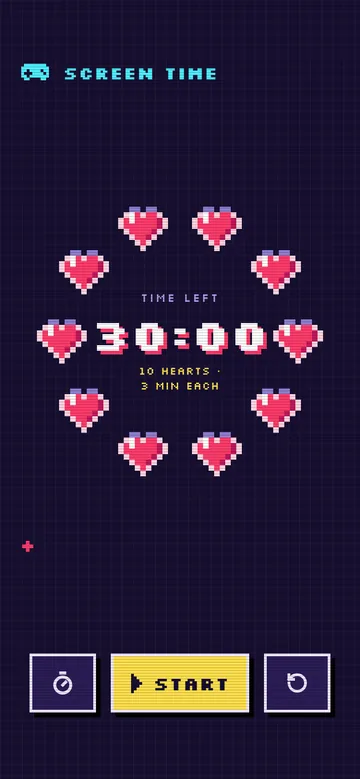
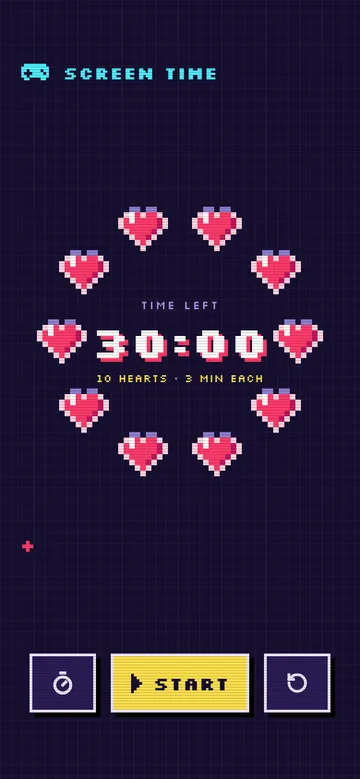
Keep the Pixel Hearts caption inside the ring
The caption stays on one line only where that line clears the hearts at
its height; otherwise it breaks cleanly into "12 hearts" / "10 min each".
Uneven lengths read as 6:43, and times of ten hours or more use a smaller
readout so they fit between the hearts.

Claude-Session: https://claude.ai/code/session_01BDMspL63Je5fGNU67sLzgM

Changed region(s): [[0.2444, 0.3697, 0.7639, 0.5237]]

diff --git a/themes.js b/themes.js
@@ -1,4 +1,4 @@
-import { DCLogic } from './dc-runtime.js?v=bda92d4bde';
+import { DCLogic } from './dc-runtime.js?v=951db2664f';
 
 export const THEMES = [
   Object.assign({"id":"rainbow","name":"Rainbow","tagline":"Each color is 10 minutes","relative":false,"sleep":false,"bars":["#CFE8FF","#62C584"],"lbars":null,"ldir":null,"lsplit":80,"psplit":62,"back":"light","defaults":{"minutes":55,"speed":"Demo (1 min = 1 s)","bleed":false,"landscape":false},"template":"<div style=\"width: {{ L.w }}px; height: {{ L.h }}px; position: relative; overflow: {{ L.ov }}; background: #CFE8FF; font-family: 'Fredoka', 'Arial Rounded MT Bold', system-ui, sans-serif; color: #1E2A4A\">\n<div aria-hidden=\"true\" style=\"position: absolute; left: -1200px; top: -1200px; right: -1200px; bottom: -1200px; pointer-events: none; display: {{ L.bD }}; background: #CFE8FF\"></div>\n<svg width=\"{{ L.w }}\" height=\"{{ L.h }}\" viewBox=\"{{ L.vb }}\" role=\"img\" aria-label=\"{{ ariaLabel }}\" style=\"position: absolute; left: 0; top: 0; display: block; overflow: {{ L.ov }}\">\n<g display=\"{{ L.lD }}\">\n<g style=\"animation: rr-drift-l 74s linear -30s infinite\">\n<g fill=\"#FFFFFF\" opacity=\"0.9\">\n<circle cx=\"34\" cy=\"70\" r=\"15\"></circle>\n<circle cx=\"56\" cy=\"61\" r=\"20\"></circle>\n<circle cx=\"80\" cy=\"70\" r=\"14\"></circle>\n<rect x=\"19\" y=\"68\" width=\"76\" height=\"16\" rx=\"8\"></rect>\n</g>\n</g>\n<g style=\"animation: rr-drift-l 98s linear -74s infinite\">\n<g fill=\"#FFFFFF\" opacity=\"0.75\">\n<circle cx=\"26\" cy=\"128\" r=\"11\"></circle>\n<circle cx=\"42\" cy=\"121\" r=\"15\"></circle>\n<circle cx=\"60\" cy=\"128\" r=\"10\"></circle>\n<rect x=\"15\" y=\"127\" width=\"56\" height=\"12\" rx=\"6\"></rect>\n</g>\n</g>\n<path d=\"M-1200 318L-300 318C-120 318 -48 309 0 300C96 282 196 284 290 300C380 315 450 300 520 268C600 232 720 224 844 238C968 252 1100 262 1300 262L2044 262L2044 1590L-1200 1590Z\" fill=\"#9ADFA9\"></path>\n<path d=\"M-1200 360L-300 360C-120 360 -55 350 0 338C110 314 222 314 330 330C420 344 470 330 540 300C620 266 730 262 844 274C958 286 1100 296 1300 296L2044 296L2044 1590L-1200 1590Z\" fill=\"#62C584\"></path>\n</g>\n<g display=\"{{ L.pD }}\">\n<g style=\"animation: rr-drift 54s linear -20s infinite\">\n<g fill=\"#FFFFFF\" opacity=\"0.9\">\n<circle cx=\"34\" cy=\"178\" r=\"15\"></circle>\n<circle cx=\"56\" cy=\"169\" r=\"20\"></circle>\n<circle cx=\"80\" cy=\"178\" r=\"14\"></circle>\n<rect x=\"19\" y=\"176\" width=\"76\" height=\"16\" rx=\"8\"></rect>\n</g>\n</g>\n<g style=\"animation: rr-drift 72s linear -50s infinite\">\n<g fill=\"#FFFFFF\" opacity=\"0.75\">\n<circle cx=\"26\" cy=\"232\" r=\"11\"></circle>\n<circle cx=\"42\" cy=\"225\" r=\"15\"></circle>\n<circle cx=\"60\" cy=\"232\" r=\"10\"></circle>\n<rect x=\"15\" y=\"231\" width=\"56\" height=\"12\" rx=\"6\"></rect>\n</g>\n</g>\n</g>\n<g transform=\"{{ L.gT }}\">\n<g opacity=\"{{ sunOpacity }}\" style=\"transition: opacity 0.9s ease\">\n<g style=\"transform-box: fill-box; transform-origin: center; animation: rr-spin 28s linear infinite\">\n<path d=\"M255 352L271 352M246.96 382L260.82 390M225 403.96L233 417.82M195 412L195 428M165 403.96L157 417.82M143.04 382L129.18 390M135 352L119 352M143.04 322L129.18 314M165 300.04L157 286.18M195 292L195 276M225 300.04L233 286.18M246.96 322L260.82 314\" fill=\"none\" stroke=\"#FFC233\" stroke-width=\"10\" stroke-linecap=\"round\"></path>\n</g>\n<circle cx=\"195\" cy=\"352\" r=\"48\" fill=\"#FFD23F\"></circle>\n<circle cx=\"195\" cy=\"352\" r=\"36\" fill=\"#FFE27A\"></circle>\n</g>\n<g fill=\"none\" stroke=\"#FFFFFF\" stroke-opacity=\"0.5\" stroke-width=\"20\" stroke-linecap=\"round\">\n<path d=\"M25 432A170 170 0 0 1 365 432\"></path>\n<path d=\"M48 432A147 147 0 0 1 342 432\"></path>\n<path d=\"M71 432A124 124 0 0 1 319 432\"></path>\n<path d=\"M94 432A101 101 0 0 1 296 432\"></path>\n<path d=\"M117 432A78 78 0 0 1 273 432\"></path>\n<path d=\"M140 432A55 55 0 0 1 250 432\"></path>\n</g>\n<g fill=\"none\" stroke-width=\"20\" stroke-linecap=\"round\">\n<path d=\"{{ b0 }}\" stroke=\"#FF5D5D\"></path>\n<path d=\"{{ b1 }}\" stroke=\"#FF9F43\"></path>\n<path d=\"{{ b2 }}\" stroke=\"#FFD43B\"></path>\n<path d=\"{{ b3 }}\" stroke=\"#4CCB7A\"></path>\n<path d=\"{{ b4 }}\" stroke=\"#4D96FF\"></path>\n<path d=\"{{ b5 }}\" stroke=\"#9B6BFF\"></path>\n</g>\n<g transform=\"translate({{ tipX }} {{ tipY }})\" opacity=\"{{ tipOpacity }}\">\n<path d=\"M0 -11C1.6 -3 3 -1.6 11 0C3 1.6 1.6 3 0 11C-1.6 3 -3 1.6 -11 0C-3 -1.6 -1.6 -3 0 -11Z\" fill=\"#FFFFFF\" style=\"animation: rr-twinkle 1.1s ease-in-out infinite\"></path>\n</g>\n<g fill=\"#1E2A4A\" font-size=\"13\" font-weight=\"600\" text-anchor=\"middle\">\n<text x=\"25\" y=\"462\">{{ F.a }}</text>\n<text x=\"48\" y=\"462\">{{ F.b }}</text>\n<text x=\"71\" y=\"462\">{{ F.c }}</text>\n<text x=\"94\" y=\"462\">{{ F.d }}</text>\n<text x=\"117\" y=\"462\">{{ F.e }}</text>\n<text x=\"140\" y=\"462\">{{ F.f }}</text>\n</g>\n<g style=\"animation: rr-bob 3.4s ease-in-out infinite\">\n<g fill=\"#B4D3F2\">\n<rect x=\"226\" y=\"423\" width=\"172\" height=\"48\" rx=\"24\"></rect>\n<circle cx=\"258\" cy=\"427\" r=\"30\"></circle>\n<circle cx=\"300\" cy=\"409\" r=\"40\"></circle>\n<circle cx=\"346\" cy=\"411\" r=\"36\"></circle>\n<circle cx=\"380\" cy=\"431\" r=\"28\"></circle>\n</g>\n<g fill=\"#FFFFFF\">\n<rect x=\"226\" y=\"416\" width=\"172\" height=\"48\" rx=\"24\"></rect>\n<circle cx=\"258\" cy=\"420\" r=\"30\"></circle>\n<circle cx=\"300\" cy=\"402\" r=\"40\"></circle>\n<circle cx=\"346\" cy=\"404\" r=\"36\"></circle>\n<circle cx=\"380\" cy=\"424\" r=\"28\"></circle>\n</g>\n<circle cx=\"292\" cy=\"414\" r=\"3.4\" fill=\"#1E2A4A\"></circle>\n<circle cx=\"318\" cy=\"414\" r=\"3.4\" fill=\"#1E2A4A\"></circle>\n<path d=\"M299 421Q305 426.5 311 421\" fill=\"none\" stroke=\"#1E2A4A\" stroke-width=\"2.4\" stroke-linecap=\"round\"></path>\n<ellipse cx=\"281\" cy=\"423\" rx=\"6\" ry=\"3.6\" fill=\"#FFB5C5\"></ellipse>\n<ellipse cx=\"329\" cy=\"423\" rx=\"6\" ry=\"3.6\" fill=\"#FFB5C5\"></ellipse>\n</g>\n</g>\n<g display=\"{{ L.pD }}\">\n<path d=\"M-1200 540L-400 540C-200 540 -36 514 0 500C72 472 152 470 222 488C282 503 342 499 390 480C438 461 560 452 760 452L1590 452L1590 2044L-1200 2044Z\" fill=\"#9ADFA9\"></path>\n<path d=\"M-1200 590L-400 590C-200 590 -46 569 0 552C92 518 182 514 262 530C322 542 362 538 390 528C418 518 560 506 760 506L1590 506L1590 2044L-1200 2044Z\" fill=\"#62C584\"></path>\n</g>\n</svg>\n<header style=\"position: absolute; left: {{ L.hL }}px; right: {{ L.hR }}px; top: {{ L.hT }}px; height: 52px; display: flex; align-items: center; justify-content: space-between; gap: 12px\">\n<h1 style=\"margin: 0; font-size: 28px; font-weight: 700; line-height: 1.1; letter-spacing: -0.01em\">Playtime</h1>\n</header>\n<div style=\"position: absolute; left: {{ L.pL }}px; right: {{ L.pR }}px; top: {{ L.rT }}px; transform: {{ L.mid }}; display: flex; flex-direction: column; align-items: center\">\n<sc-if value=\"{{ notDone }}\" hint-placeholder-val=\"{{ true }}\">\n<div style=\"display: flex; flex-direction: column; align-items: center; gap: 10px\">\n<div style=\"font-size: 80px; font-weight: 700; line-height: 1; letter-spacing: -0.02em; font-variant-numeric: tabular-nums\">{{ time }}</div>\n<div style=\"display: flex; align-items: center; gap: 10px; font-size: 17px; font-weight: 600\">\n<div style=\"display: flex; align-items: center; gap: 5px\" aria-hidden=\"true\">\n<span style=\"width: 11px; height: 11px; border-radius: 99px; background: #FF5D5D; box-shadow: 0 0 0 2px #FFFFFF\"></span>\n<span style=\"width: 11px; height: 11px; border-radius: 99px; background: #FF9F43; box-shadow: 0 0 0 2px #FFFFFF\"></span>\n<span style=\"width: 11px; height: 11px; border-radius: 99px; background: #FFD43B; box-shadow: 0 0 0 2px #FFFFFF\"></span>\n<span style=\"width: 11px; height: 11px; border-radius: 99px; background: #4CCB7A; box-shadow: 0 0 0 2px #FFFFFF\"></span>\n<span style=\"width: 11px; height: 11px; border-radius: 99px; background: #4D96FF; box-shadow: 0 0 0 2px #FFFFFF\"></span>\n<span style=\"width: 11px; height: 11px; border-radius: 99px; background: #9B6BFF; box-shadow: 0 0 0 2px #FFFFFF\"></span>\n</div>\n<span>{{ colorLabel }}</span>\n</div>\n</div>\n</sc-if>\n<sc-if value=\"{{ done }}\" hint-placeholder-val=\"{{ false }}\">\n<div style=\"display: flex; flex-direction: column; align-items: center; gap: 10px\">\n<div style=\"font-size: 62px; font-weight: 700; line-height: 1\">All done!</div>\n<div style=\"font-size: 18px; font-weight: 600\">The rainbow went home</div>\n</div>\n</sc-if>\n</div>\n<div style=\"position: absolute; left: {{ L.pL }}px; right: {{ L.pR }}px; top: {{ L.kT }}px; transform: {{ L.mid }}; display: flex; align-items: center; justify-content: center; gap: 30px\">\n<button type=\"button\" onClick=\"{{ setTime }}\" aria-label=\"Set the time\" style=\"width: 62px; height: 62px; padding: 0; border: none; border-radius: 999px; background: #FFFFFF; color: #1E2A4A; display: flex; align-items: center; justify-content: center; cursor: pointer; box-shadow: 0 4px 0 #3F9E62\"><svg width=\"26\" height=\"26\" viewBox=\"0 0 24 24\" fill=\"none\" stroke=\"currentColor\" stroke-width=\"2.4\" stroke-linecap=\"round\" stroke-linejoin=\"round\" aria-hidden=\"true\" style=\"display: block\"><path d=\"M10 2h4M12 14l3-3\"></path><circle cx=\"12\" cy=\"14\" r=\"8\"></circle></svg></button>\n<button type=\"button\" onClick=\"{{ toggle }}\" aria-label=\"{{ toggleLabel }}\" style=\"width: 90px; height: 90px; padding: 0; border: none; border-radius: 999px; background: #1E2A4A; color: #FFFFFF; display: flex; align-items: center; justify-content: center; cursor: pointer; box-shadow: 0 6px 0 #101935\">\n<sc-if value=\"{{ showPlay }}\" hint-placeholder-val=\"{{ true }}\"><svg width=\"38\" height=\"38\" viewBox=\"0 0 24 24\" aria-hidden=\"true\" style=\"display: block; margin-left: 3px\"><path d=\"M8 5.14v13.72a1 1 0 0 0 1.52.85l10.79-6.86a1 1 0 0 0 0-1.7L9.52 4.29A1 1 0 0 0 8 5.14z\" fill=\"currentColor\"></path></svg></sc-if>\n<sc-if value=\"{{ running }}\" hint-placeholder-val=\"{{ false }}\"><svg width=\"34\" height=\"34\" viewBox=\"0 0 24 24\" aria-hidden=\"true\" style=\"display: block\"><rect x=\"6\" y=\"4.5\" width=\"4.5\" height=\"15\" rx=\"1.4\" fill=\"currentColor\"></rect><rect x=\"13.5\" y=\"4.5\" width=\"4.5\" height=\"15\" rx=\"1.4\" fill=\"currentColor\"></rect></svg></sc-if>\n<sc-if value=\"{{ showReplay }}\" hint-placeholder-val=\"{{ false }}\"><svg width=\"34\" height=\"34\" viewBox=\"0 0 24 24\" fill=\"none\" stroke=\"currentColor\" stroke-width=\"2.6\" stroke-linecap=\"round\" stroke-linejoin=\"round\" aria-hidden=\"true\" style=\"display: block\"><path d=\"M3 12a9 9 0 1 0 9-9 9.75 9.75 0 0 0-6.74 2.74L3 8\"></path><path d=\"M3 3v5h5\"></path></svg></sc-if>\n</button>\n<button type=\"button\" onClick=\"{{ reset }}\" aria-label=\"Reset timer\" style=\"width: 62px; height: 62px; padding: 0; border: none; border-radius: 999px; background: #FFFFFF; color: #1E2A4A; display: flex; align-items: center; justify-content: center; cursor: pointer; box-shadow: 0 4px 0 #3F9E62\"><svg width=\"24\" height=\"24\" viewBox=\"0 0 24 24\" fill=\"none\" stroke=\"currentColor\" stroke-width=\"2.4\" stroke-linecap=\"round\" stroke-linejoin=\"round\" aria-hidden=\"true\" style=\"display: block\"><path d=\"M3 12a9 9 0 1 0 9-9 9.75 9.75 0 0 0-6.74 2.74L3 8\"></path><path d=\"M3 3v5h5\"></path></svg></button>\n</div>\n<sc-if value=\"{{ picking }}\" hint-placeholder-val=\"{{ false }}\">\n<div style=\"position: absolute; left: 0; top: 0; width: {{ L.w }}px; height: {{ L.h }}px; z-index: 20\">\n<dc-import name=\"TimePicker\" value=\"{{ pickValue }}\" mode=\"duration\" heading=\"Set time\" accent=\"#1E2A4A\" accent-ink=\"#FFFFFF\" dark=\"{{ false }}\" landscape=\"{{ L.land }}\" bleed=\"{{ L.B }}\" on-set=\"{{ applyTime }}\" on-cancel=\"{{ cancelPick }}\" hint-size=\"390px,844px\"></dc-import>\n</div>\n</sc-if>\n</div>"}, { Logic: (function () {
@@ -675,7 +675,7 @@ class Component extends DCLogic {
 }
 return Component;
 })() }),
-  Object.assign({"id":"hearts","name":"Pixel Hearts","tagline":"Screen time, game style","relative":false,"sleep":false,"bars":["#170F31","#170F31"],"lbars":null,"ldir":null,"lsplit":null,"psplit":null,"back":"dark","defaults":{"minutes":30,"speed":"Demo (1 min = 1 s)","bleed":false,"landscape":false},"template":"<div style=\"width: {{ L.w }}px; height: {{ L.h }}px; position: relative; overflow: {{ L.ov }}; background-color: #170F31; background-image: linear-gradient(rgba(255, 255, 255, 0.04) 1px, transparent 1px), linear-gradient(90deg, rgba(255, 255, 255, 0.04) 1px, transparent 1px); background-size: 12px 12px; font-family: 'Silkscreen', 'Courier New', monospace; color: #EFE6FF\">\n<div aria-hidden=\"true\" style=\"position: absolute; left: -1200px; top: -1200px; right: -1200px; bottom: -1200px; pointer-events: none; display: {{ L.bD }}; background-color: #170F31; background-image: linear-gradient(rgba(255, 255, 255, 0.04) 1px, transparent 1px), linear-gradient(90deg, rgba(255, 255, 255, 0.04) 1px, transparent 1px); background-size: 12px 12px; background-position: 1200px 1200px\"></div>\n<svg width=\"{{ L.w }}\" height=\"{{ L.h }}\" viewBox=\"{{ L.vb }}\" shape-rendering=\"crispEdges\" aria-hidden=\"true\" style=\"position: absolute; left: 0; top: 0; display: block\">\n<g display=\"{{ L.lD }}\">\n<g fill=\"#4DF0FF\" style=\"animation: ar-blink 1.6s steps(1) infinite\"><rect x=\"66\" y=\"52\" width=\"12\" height=\"4\"></rect><rect x=\"70\" y=\"48\" width=\"4\" height=\"12\"></rect><rect x=\"410\" y=\"334\" width=\"12\" height=\"4\"></rect><rect x=\"414\" y=\"330\" width=\"4\" height=\"12\"></rect></g>\n<g fill=\"#FFE14D\" style=\"animation: ar-blink 2.2s steps(1) -0.7s infinite\"><rect x=\"414\" y=\"44\" width=\"12\" height=\"4\"></rect><rect x=\"418\" y=\"40\" width=\"4\" height=\"12\"></rect><rect x=\"774\" y=\"336\" width=\"12\" height=\"4\"></rect><rect x=\"778\" y=\"332\" width=\"4\" height=\"12\"></rect></g>\n<g fill=\"#FF3B6B\" style=\"animation: ar-blink 1.9s steps(1) -1.1s infinite\"><rect x=\"56\" y=\"322\" width=\"12\" height=\"4\"></rect><rect x=\"60\" y=\"318\" width=\"4\" height=\"12\"></rect><rect x=\"606\" y=\"312\" width=\"12\" height=\"4\"></rect><rect x=\"610\" y=\"308\" width=\"4\" height=\"12\"></rect></g>\n</g>\n<g display=\"{{ L.pD }}\">\n<g fill=\"#4DF0FF\" style=\"animation: ar-blink 1.6s steps(1) infinite\"><rect x=\"38\" y=\"168\" width=\"12\" height=\"4\"></rect><rect x=\"42\" y=\"164\" width=\"4\" height=\"12\"></rect><rect x=\"354\" y=\"558\" width=\"12\" height=\"4\"></rect><rect x=\"358\" y=\"554\" width=\"4\" height=\"12\"></rect></g>\n<g fill=\"#FFE14D\" style=\"animation: ar-blink 2.2s steps(1) -0.7s infinite\"><rect x=\"346\" y=\"174\" width=\"12\" height=\"4\"></rect><rect x=\"350\" y=\"170\" width=\"4\" height=\"12\"></rect><rect x=\"312\" y=\"638\" width=\"12\" height=\"4\"></rect><rect x=\"316\" y=\"634\" width=\"4\" height=\"12\"></rect></g>\n<g fill=\"#FF3B6B\" style=\"animation: ar-blink 1.9s steps(1) -1.1s infinite\"><rect x=\"24\" y=\"590\" width=\"12\" height=\"4\"></rect><rect x=\"28\" y=\"586\" width=\"4\" height=\"12\"></rect></g>\n</g>\n</svg>\n<header style=\"position: absolute; left: {{ L.hL }}px; right: {{ L.hR }}px; top: {{ L.hT }}px; height: 52px; display: flex; align-items: center; justify-content: space-between; gap: 12px\">\n<div style=\"display: flex; align-items: center; gap: 12px\">\n<svg width=\"36\" height=\"24\" viewBox=\"0 0 12 8\" shape-rendering=\"crispEdges\" aria-hidden=\"true\" style=\"display: block\"><path d=\"M2 1h8v1h1v4h-1v1h-2v-1h-4v1h-2v-1h-1v-4h1z\" fill=\"#4DF0FF\"></path><path d=\"M3 3h1v1h1v1h-1v1h-1v-1h-1v-1h1z\" fill=\"#170F31\"></path><path d=\"M8 3h1v1h-1zM9 4h1v1h-1z\" fill=\"#170F31\"></path></svg>\n<h1 style=\"margin: 0; font-family: 'Silkscreen', 'Courier New', monospace; font-weight: 700; font-size: 21px; line-height: 1; color: #4DF0FF; letter-spacing: 0.02em\">Screen time</h1>\n</div>\n</header>\n<div style=\"position: absolute; left: 0; top: 0; width: 390px; height: 844px; pointer-events: none; transform-origin: 0 0; transform: {{ L.cT }}\">\n<sc-for list=\"{{ hearts }}\" as=\"h\" hint-placeholder-count=\"12\">\n<div style=\"position: absolute; left: {{ h.x }}px; top: {{ h.y }}px; width: 54px; height: 48px; animation: {{ h.anim }}\">\n<svg width=\"54\" height=\"48\" viewBox=\"0 0 9 8\" shape-rendering=\"crispEdges\" aria-hidden=\"true\" style=\"position: absolute; left: 0; top: 0; display: block\">\n<path d=\"M2 1h2v1h-2zM5 1h2v1h-2zM1 2h7v2h-7zM2 4h5v1h-5zM3 5h3v1h-3zM4 6h1v1h-1z\" fill=\"#241845\"></path>\n<path d=\"M2 0h2v1h-2zM5 0h2v1h-2zM1 1h1v1h-1zM4 1h1v1h-1zM7 1h1v1h-1zM0 2h1v2h-1zM8 2h1v2h-1zM1 4h1v1h-1zM7 4h1v1h-1zM2 5h1v1h-1zM6 5h1v1h-1zM3 6h1v1h-1zM5 6h1v1h-1zM4 7h1v1h-1z\" fill=\"#8F7FD0\"></path>\n</svg>\n<div style=\"position: absolute; left: 0; bottom: 0; width: 54px; height: {{ h.h }}px; overflow: hidden\">\n<svg width=\"54\" height=\"48\" viewBox=\"0 0 9 8\" shape-rendering=\"crispEdges\" aria-hidden=\"true\" style=\"position: absolute; left: 0; bottom: 0; display: block\">\n<path d=\"M2 1h2v1h-2zM5 1h2v1h-2zM1 2h7v2h-7zM2 4h5v1h-5zM3 5h3v1h-3zM4 6h1v1h-1z\" fill=\"#FF3B6B\"></path>\n<path d=\"M7 2h1v2h-1zM6 4h1v1h-1zM5 5h1v1h-1z\" fill=\"#C2185B\"></path>\n<path d=\"M2 1h1v2h-1z\" fill=\"#FFFFFF\"></path>\n<path d=\"M2 0h2v1h-2zM5 0h2v1h-2zM1 1h1v1h-1zM4 1h1v1h-1zM7 1h1v1h-1zM0 2h1v2h-1zM8 2h1v2h-1zM1 4h1v1h-1zM7 4h1v1h-1zM2 5h1v1h-1zM6 5h1v1h-1zM3 6h1v1h-1zM5 6h1v1h-1zM4 7h1v1h-1z\" fill=\"#FFD6E2\"></path>\n</svg>\n</div>\n</div>\n</sc-for>\n<div role=\"img\" aria-label=\"{{ ariaLabel }}\" style=\"position: absolute; left: 95px; top: 300px; width: 200px; height: 140px; display: flex; flex-direction: column; align-items: center; justify-content: center; text-align: center\">\n<sc-if value=\"{{ notDone }}\" hint-placeholder-val=\"{{ true }}\">\n<div style=\"display: flex; flex-direction: column; align-items: center; gap: 8px\">\n<div style=\"font-family: 'Silkscreen', 'Courier New', monospace; font-size: 13px; color: #A99BE6; letter-spacing: 0.12em\">Time left</div>\n<div style=\"font-family: 'Silkscreen', 'Courier New', monospace; font-weight: 700; font-size: {{ timeSize }}px; line-height: 1; color: #FFFFFF; text-shadow: 4px 4px 0 #FF3B6B; font-variant-numeric: tabular-nums\">{{ time }}</div>\n<div style=\"max-width: 176px; font-family: 'Silkscreen', 'Courier New', monospace; font-size: 12px; line-height: 1.35; color: #FFE14D; letter-spacing: 0.04em; text-wrap: balance\">{{ heartsLabel }}</div>\n</div>\n</sc-if>\n<sc-if value=\"{{ done }}\" hint-placeholder-val=\"{{ false }}\">\n<div style=\"display: flex; flex-direction: column; align-items: center; gap: 12px\">\n<div style=\"display: flex; flex-direction: column; align-items: center; font-family: 'Silkscreen', 'Courier New', monospace; font-weight: 700; font-size: 40px; line-height: 0.95; color: #FFFFFF; text-shadow: 4px 4px 0 #FF3B6B; animation: ar-blink 1s steps(1) infinite\">\n<span>Game</span>\n<span>over</span>\n</div>\n<div style=\"font-family: 'Silkscreen', 'Courier New', monospace; font-size: 13px; color: #FFE14D\">Break time!</div>\n</div>\n</sc-if>\n</div>\n</div>\n<div style=\"position: absolute; left: {{ L.pL }}px; right: {{ L.pR }}px; top: {{ L.kT }}px; transform: {{ L.mid }}; display: flex; align-items: center; justify-content: center; gap: 16px\">\n<button type=\"button\" onClick=\"{{ setTime }}\" aria-label=\"Set the time\" style=\"width: 72px; height: 64px; padding: 0; border: 3px solid #EFE6FF; border-radius: 0; background: #2A1D55; color: #EFE6FF; display: flex; align-items: center; justify-content: center; cursor: pointer; box-shadow: 5px 5px 0 #000000\"><svg width=\"26\" height=\"26\" viewBox=\"0 0 24 24\" fill=\"none\" stroke=\"currentColor\" stroke-width=\"3\" stroke-linecap=\"square\" stroke-linejoin=\"miter\" aria-hidden=\"true\" style=\"display: block\"><path d=\"M10 2h4M12 14l3-3\"></path><circle cx=\"12\" cy=\"14\" r=\"8\"></circle></svg></button>\n<button type=\"button\" onClick=\"{{ toggle }}\" aria-label=\"{{ toggleLabel }}\" style=\"width: 150px; height: 64px; padding: 0 14px; border: 3px solid #EFE6FF; border-radius: 0; background: #FFE14D; color: #170F31; display: flex; align-items: center; justify-content: center; font-family: 'Silkscreen', 'Courier New', monospace; font-size: 20px; font-weight: 700; cursor: pointer; box-shadow: 5px 5px 0 #000000\">\n<sc-if value=\"{{ showPlay }}\" hint-placeholder-val=\"{{ true }}\"><span style=\"display: flex; align-items: center; gap: 12px\"><svg width=\"12\" height=\"21\" viewBox=\"0 0 4 7\" shape-rendering=\"crispEdges\" aria-hidden=\"true\" style=\"display: block\"><path d=\"M0 0h1v7h-1zM1 1h1v5h-1zM2 2h1v3h-1zM3 3h1v1h-1z\" fill=\"currentColor\"></path></svg><span>Start</span></span></sc-if>\n<sc-if value=\"{{ running }}\" hint-placeholder-val=\"{{ false }}\"><span style=\"display: flex; align-items: center; gap: 12px\"><svg width=\"15\" height=\"21\" viewBox=\"0 0 5 7\" shape-rendering=\"crispEdges\" aria-hidden=\"true\" style=\"display: block\"><path d=\"M0 0h2v7h-2zM3 0h2v7h-2z\" fill=\"currentColor\"></path></svg><span>Pause</span></span></sc-if>\n<sc-if value=\"{{ showReplay }}\" hint-placeholder-val=\"{{ false }}\"><span style=\"display: flex; align-items: center; gap: 12px\"><svg width=\"12\" height=\"21\" viewBox=\"0 0 4 7\" shape-rendering=\"crispEdges\" aria-hidden=\"true\" style=\"display: block\"><path d=\"M0 0h1v7h-1zM1 1h1v5h-1zM2 2h1v3h-1zM3 3h1v1h-1z\" fill=\"currentColor\"></path></svg><span>Again</span></span></sc-if>\n</button>\n<button type=\"button\" onClick=\"{{ reset }}\" aria-label=\"Reset timer\" style=\"width: 72px; height: 64px; padding: 0; border: 3px solid #EFE6FF; border-radius: 0; background: #2A1D55; color: #EFE6FF; display: flex; align-items: center; justify-content: center; cursor: pointer; box-shadow: 5px 5px 0 #000000\"><svg width=\"24\" height=\"24\" viewBox=\"0 0 24 24\" fill=\"none\" stroke=\"currentColor\" stroke-width=\"3\" stroke-linecap=\"square\" stroke-linejoin=\"miter\" aria-hidden=\"true\" style=\"display: block\"><path d=\"M3 12a9 9 0 1 0 9-9 9.75 9.75 0 0 0-6.74 2.74L3 8\"></path><path d=\"M3 3v5h5\"></path></svg></button>\n</div>\n<div aria-hidden=\"true\" style=\"position: absolute; left: {{ L.bI }}px; top: {{ L.bI }}px; right: {{ L.bI }}px; bottom: {{ L.bI }}px; pointer-events: none; background-image: repeating-linear-gradient(180deg, rgba(0, 0, 0, 0.16) 0px, rgba(0, 0, 0, 0.16) 1px, transparent 1px, transparent 3px)\"></div>\n<sc-if value=\"{{ picking }}\" hint-placeholder-val=\"{{ false }}\">\n<div style=\"position: absolute; left: 0; top: 0; width: {{ L.w }}px; height: {{ L.h }}px; z-index: 20\">\n<dc-import name=\"TimePicker\" value=\"{{ pickValue }}\" mode=\"duration\" heading=\"Set time\" accent=\"#FFE14D\" accent-ink=\"#170F31\" dark=\"{{ true }}\" landscape=\"{{ L.land }}\" bleed=\"{{ L.B }}\" on-set=\"{{ applyTime }}\" on-cancel=\"{{ cancelPick }}\" hint-size=\"390px,844px\"></dc-import>\n</div>\n</sc-if>\n</div>"}, { Logic: (function () {
+  Object.assign({"id":"hearts","name":"Pixel Hearts","tagline":"Screen time, game style","relative":false,"sleep":false,"bars":["#170F31","#170F31"],"lbars":null,"ldir":null,"lsplit":null,"psplit":null,"back":"dark","defaults":{"minutes":30,"speed":"Demo (1 min = 1 s)","bleed":false,"landscape":false},"template":"<div style=\"width: {{ L.w }}px; height: {{ L.h }}px; position: relative; overflow: {{ L.ov }}; background-color: #170F31; background-image: linear-gradient(rgba(255, 255, 255, 0.04) 1px, transparent 1px), linear-gradient(90deg, rgba(255, 255, 255, 0.04) 1px, transparent 1px); background-size: 12px 12px; font-family: 'Silkscreen', 'Courier New', monospace; color: #EFE6FF\">\n<div aria-hidden=\"true\" style=\"position: absolute; left: -1200px; top: -1200px; right: -1200px; bottom: -1200px; pointer-events: none; display: {{ L.bD }}; background-color: #170F31; background-image: linear-gradient(rgba(255, 255, 255, 0.04) 1px, transparent 1px), linear-gradient(90deg, rgba(255, 255, 255, 0.04) 1px, transparent 1px); background-size: 12px 12px; background-position: 1200px 1200px\"></div>\n<svg width=\"{{ L.w }}\" height=\"{{ L.h }}\" viewBox=\"{{ L.vb }}\" shape-rendering=\"crispEdges\" aria-hidden=\"true\" style=\"position: absolute; left: 0; top: 0; display: block\">\n<g display=\"{{ L.lD }}\">\n<g fill=\"#4DF0FF\" style=\"animation: ar-blink 1.6s steps(1) infinite\"><rect x=\"66\" y=\"52\" width=\"12\" height=\"4\"></rect><rect x=\"70\" y=\"48\" width=\"4\" height=\"12\"></rect><rect x=\"410\" y=\"334\" width=\"12\" height=\"4\"></rect><rect x=\"414\" y=\"330\" width=\"4\" height=\"12\"></rect></g>\n<g fill=\"#FFE14D\" style=\"animation: ar-blink 2.2s steps(1) -0.7s infinite\"><rect x=\"414\" y=\"44\" width=\"12\" height=\"4\"></rect><rect x=\"418\" y=\"40\" width=\"4\" height=\"12\"></rect><rect x=\"774\" y=\"336\" width=\"12\" height=\"4\"></rect><rect x=\"778\" y=\"332\" width=\"4\" height=\"12\"></rect></g>\n<g fill=\"#FF3B6B\" style=\"animation: ar-blink 1.9s steps(1) -1.1s infinite\"><rect x=\"56\" y=\"322\" width=\"12\" height=\"4\"></rect><rect x=\"60\" y=\"318\" width=\"4\" height=\"12\"></rect><rect x=\"606\" y=\"312\" width=\"12\" height=\"4\"></rect><rect x=\"610\" y=\"308\" width=\"4\" height=\"12\"></rect></g>\n</g>\n<g display=\"{{ L.pD }}\">\n<g fill=\"#4DF0FF\" style=\"animation: ar-blink 1.6s steps(1) infinite\"><rect x=\"38\" y=\"168\" width=\"12\" height=\"4\"></rect><rect x=\"42\" y=\"164\" width=\"4\" height=\"12\"></rect><rect x=\"354\" y=\"558\" width=\"12\" height=\"4\"></rect><rect x=\"358\" y=\"554\" width=\"4\" height=\"12\"></rect></g>\n<g fill=\"#FFE14D\" style=\"animation: ar-blink 2.2s steps(1) -0.7s infinite\"><rect x=\"346\" y=\"174\" width=\"12\" height=\"4\"></rect><rect x=\"350\" y=\"170\" width=\"4\" height=\"12\"></rect><rect x=\"312\" y=\"638\" width=\"12\" height=\"4\"></rect><rect x=\"316\" y=\"634\" width=\"4\" height=\"12\"></rect></g>\n<g fill=\"#FF3B6B\" style=\"animation: ar-blink 1.9s steps(1) -1.1s infinite\"><rect x=\"24\" y=\"590\" width=\"12\" height=\"4\"></rect><rect x=\"28\" y=\"586\" width=\"4\" height=\"12\"></rect></g>\n</g>\n</svg>\n<header style=\"position: absolute; left: {{ L.hL }}px; right: {{ L.hR }}px; top: {{ L.hT }}px; height: 52px; display: flex; align-items: center; justify-content: space-between; gap: 12px\">\n<div style=\"display: flex; align-items: center; gap: 12px\">\n<svg width=\"36\" height=\"24\" viewBox=\"0 0 12 8\" shape-rendering=\"crispEdges\" aria-hidden=\"true\" style=\"display: block\"><path d=\"M2 1h8v1h1v4h-1v1h-2v-1h-4v1h-2v-1h-1v-4h1z\" fill=\"#4DF0FF\"></path><path d=\"M3 3h1v1h1v1h-1v1h-1v-1h-1v-1h1z\" fill=\"#170F31\"></path><path d=\"M8 3h1v1h-1zM9 4h1v1h-1z\" fill=\"#170F31\"></path></svg>\n<h1 style=\"margin: 0; font-family: 'Silkscreen', 'Courier New', monospace; font-weight: 700; font-size: 21px; line-height: 1; color: #4DF0FF; letter-spacing: 0.02em\">Screen time</h1>\n</div>\n</header>\n<div style=\"position: absolute; left: 0; top: 0; width: 390px; height: 844px; pointer-events: none; transform-origin: 0 0; transform: {{ L.cT }}\">\n<sc-for list=\"{{ hearts }}\" as=\"h\" hint-placeholder-count=\"12\">\n<div style=\"position: absolute; left: {{ h.x }}px; top: {{ h.y }}px; width: 54px; height: 48px; animation: {{ h.anim }}\">\n<svg width=\"54\" height=\"48\" viewBox=\"0 0 9 8\" shape-rendering=\"crispEdges\" aria-hidden=\"true\" style=\"position: absolute; left: 0; top: 0; display: block\">\n<path d=\"M2 1h2v1h-2zM5 1h2v1h-2zM1 2h7v2h-7zM2 4h5v1h-5zM3 5h3v1h-3zM4 6h1v1h-1z\" fill=\"#241845\"></path>\n<path d=\"M2 0h2v1h-2zM5 0h2v1h-2zM1 1h1v1h-1zM4 1h1v1h-1zM7 1h1v1h-1zM0 2h1v2h-1zM8 2h1v2h-1zM1 4h1v1h-1zM7 4h1v1h-1zM2 5h1v1h-1zM6 5h1v1h-1zM3 6h1v1h-1zM5 6h1v1h-1zM4 7h1v1h-1z\" fill=\"#8F7FD0\"></path>\n</svg>\n<div style=\"position: absolute; left: 0; bottom: 0; width: 54px; height: {{ h.h }}px; overflow: hidden\">\n<svg width=\"54\" height=\"48\" viewBox=\"0 0 9 8\" shape-rendering=\"crispEdges\" aria-hidden=\"true\" style=\"position: absolute; left: 0; bottom: 0; display: block\">\n<path d=\"M2 1h2v1h-2zM5 1h2v1h-2zM1 2h7v2h-7zM2 4h5v1h-5zM3 5h3v1h-3zM4 6h1v1h-1z\" fill=\"#FF3B6B\"></path>\n<path d=\"M7 2h1v2h-1zM6 4h1v1h-1zM5 5h1v1h-1z\" fill=\"#C2185B\"></path>\n<path d=\"M2 1h1v2h-1z\" fill=\"#FFFFFF\"></path>\n<path d=\"M2 0h2v1h-2zM5 0h2v1h-2zM1 1h1v1h-1zM4 1h1v1h-1zM7 1h1v1h-1zM0 2h1v2h-1zM8 2h1v2h-1zM1 4h1v1h-1zM7 4h1v1h-1zM2 5h1v1h-1zM6 5h1v1h-1zM3 6h1v1h-1zM5 6h1v1h-1zM4 7h1v1h-1z\" fill=\"#FFD6E2\"></path>\n</svg>\n</div>\n</div>\n</sc-for>\n<div role=\"img\" aria-label=\"{{ ariaLabel }}\" style=\"position: absolute; left: 95px; top: 300px; width: 200px; height: 140px; display: flex; flex-direction: column; align-items: center; justify-content: center; text-align: center\">\n<sc-if value=\"{{ notDone }}\" hint-placeholder-val=\"{{ true }}\">\n<div style=\"display: flex; flex-direction: column; align-items: center; gap: 8px\">\n<div style=\"font-family: 'Silkscreen', 'Courier New', monospace; font-size: 13px; color: #A99BE6; letter-spacing: 0.12em\">Time left</div>\n<div style=\"font-family: 'Silkscreen', 'Courier New', monospace; font-weight: 700; font-size: {{ timeSize }}px; line-height: 1; color: #FFFFFF; text-shadow: 4px 4px 0 #FF3B6B; font-variant-numeric: tabular-nums\">{{ time }}</div>\n<div style=\"max-width: 200px; font-family: 'Silkscreen', 'Courier New', monospace; font-size: 12px; line-height: 1.35; color: #FFE14D; letter-spacing: 0.04em; white-space: pre-line\">{{ heartsLabel }}</div>\n</div>\n</sc-if>\n<sc-if value=\"{{ done }}\" hint-placeholder-val=\"{{ false }}\">\n<div style=\"display: flex; flex-direction: column; align-items: center; gap: 12px\">\n<div style=\"display: flex; flex-direction: column; align-items: center; font-family: 'Silkscreen', 'Courier New', monospace; font-weight: 700; font-size: 40px; line-height: 0.95; color: #FFFFFF; text-shadow: 4px 4px 0 #FF3B6B; animation: ar-blink 1s steps(1) infinite\">\n<span>Game</span>\n<span>over</span>\n</div>\n<div style=\"font-family: 'Silkscreen', 'Courier New', monospace; font-size: 13px; color: #FFE14D\">Break time!</div>\n</div>\n</sc-if>\n</div>\n</div>\n<div style=\"position: absolute; left: {{ L.pL }}px; right: {{ L.pR }}px; top: {{ L.kT }}px; transform: {{ L.mid }}; display: flex; align-items: center; justify-content: center; gap: 16px\">\n<button type=\"button\" onClick=\"{{ setTime }}\" aria-label=\"Set the time\" style=\"width: 72px; height: 64px; padding: 0; border: 3px solid #EFE6FF; border-radius: 0; background: #2A1D55; color: #EFE6FF; display: flex; align-items: center; justify-content: center; cursor: pointer; box-shadow: 5px 5px 0 #000000\"><svg width=\"26\" height=\"26\" viewBox=\"0 0 24 24\" fill=\"none\" stroke=\"currentColor\" stroke-width=\"3\" stroke-linecap=\"square\" stroke-linejoin=\"miter\" aria-hidden=\"true\" style=\"display: block\"><path d=\"M10 2h4M12 14l3-3\"></path><circle cx=\"12\" cy=\"14\" r=\"8\"></circle></svg></button>\n<button type=\"button\" onClick=\"{{ toggle }}\" aria-label=\"{{ toggleLabel }}\" style=\"width: 150px; height: 64px; padding: 0 14px; border: 3px solid #EFE6FF; border-radius: 0; background: #FFE14D; color: #170F31; display: flex; align-items: center; justify-content: center; font-family: 'Silkscreen', 'Courier New', monospace; font-size: 20px; font-weight: 700; cursor: pointer; box-shadow: 5px 5px 0 #000000\">\n<sc-if value=\"{{ showPlay }}\" hint-placeholder-val=\"{{ true }}\"><span style=\"display: flex; align-items: center; gap: 12px\"><svg width=\"12\" height=\"21\" viewBox=\"0 0 4 7\" shape-rendering=\"crispEdges\" aria-hidden=\"true\" style=\"display: block\"><path d=\"M0 0h1v7h-1zM1 1h1v5h-1zM2 2h1v3h-1zM3 3h1v1h-1z\" fill=\"currentColor\"></path></svg><span>Start</span></span></sc-if>\n<sc-if value=\"{{ running }}\" hint-placeholder-val=\"{{ false }}\"><span style=\"display: flex; align-items: center; gap: 12px\"><svg width=\"15\" height=\"21\" viewBox=\"0 0 5 7\" shape-rendering=\"crispEdges\" aria-hidden=\"true\" style=\"display: block\"><path d=\"M0 0h2v7h-2zM3 0h2v7h-2z\" fill=\"currentColor\"></path></svg><span>Pause</span></span></sc-if>\n<sc-if value=\"{{ showReplay }}\" hint-placeholder-val=\"{{ false }}\"><span style=\"display: flex; align-items: center; gap: 12px\"><svg width=\"12\" height=\"21\" viewBox=\"0 0 4 7\" shape-rendering=\"crispEdges\" aria-hidden=\"true\" style=\"display: block\"><path d=\"M0 0h1v7h-1zM1 1h1v5h-1zM2 2h1v3h-1zM3 3h1v1h-1z\" fill=\"currentColor\"></path></svg><span>Again</span></span></sc-if>\n</button>\n<button type=\"button\" onClick=\"{{ reset }}\" aria-label=\"Reset timer\" style=\"width: 72px; height: 64px; padding: 0; border: 3px solid #EFE6FF; border-radius: 0; background: #2A1D55; color: #EFE6FF; display: flex; align-items: center; justify-content: center; cursor: pointer; box-shadow: 5px 5px 0 #000000\"><svg width=\"24\" height=\"24\" viewBox=\"0 0 24 24\" fill=\"none\" stroke=\"currentColor\" stroke-width=\"3\" stroke-linecap=\"square\" stroke-linejoin=\"miter\" aria-hidden=\"true\" style=\"display: block\"><path d=\"M3 12a9 9 0 1 0 9-9 9.75 9.75 0 0 0-6.74 2.74L3 8\"></path><path d=\"M3 3v5h5\"></path></svg></button>\n</div>\n<div aria-hidden=\"true\" style=\"position: absolute; left: {{ L.bI }}px; top: {{ L.bI }}px; right: {{ L.bI }}px; bottom: {{ L.bI }}px; pointer-events: none; background-image: repeating-linear-gradient(180deg, rgba(0, 0, 0, 0.16) 0px, rgba(0, 0, 0, 0.16) 1px, transparent 1px, transparent 3px)\"></div>\n<sc-if value=\"{{ picking }}\" hint-placeholder-val=\"{{ false }}\">\n<div style=\"position: absolute; left: 0; top: 0; width: {{ L.w }}px; height: {{ L.h }}px; z-index: 20\">\n<dc-import name=\"TimePicker\" value=\"{{ pickValue }}\" mode=\"duration\" heading=\"Set time\" accent=\"#FFE14D\" accent-ink=\"#170F31\" dark=\"{{ true }}\" landscape=\"{{ L.land }}\" bleed=\"{{ L.B }}\" on-set=\"{{ applyTime }}\" on-cancel=\"{{ cancelPick }}\" hint-size=\"390px,844px\"></dc-import>\n</div>\n</sc-if>\n</div>"}, { Logic: (function () {
 class Component extends DCLogic {
   componentDidMount() {
     this.last = Date.now();
@@ -853,12 +853,22 @@ class Component extends DCLogic {
       });
     }
     const n = Math.min(P.n, Math.max(0, Math.ceil(c.rem / per - 1e-9)));
+    // The caption sits just under the time, inside the ring: keep it on one
+    // line only where that line clears the hearts at its height.
+    let room = 200;
+    for (let k = 0; k < P.n; k++) {
+      const a = ((k + 0.5) * Math.PI * 2) / P.n;
+      const dy = -128 * Math.cos(a);
+      if (dy > -2 && dy < 74) room = Math.min(room, 2 * (128 * Math.abs(Math.sin(a)) - 27) - 8);
+    }
+    const capA = n === 1 ? '1 heart' : n + ' hearts';
+    const capB = (P.round ? this.span(per) : this.short(per)) + ' each';
     const done = c.rem <= 0;
     const time = this.fmt(c.rem);
     return {
       L: this.lay(),
       hearts: hearts,
-      heartsLabel: (n === 1 ? '1 heart' : n + ' hearts') + ' · ' + (P.round ? this.span(per) : this.short(per)) + ' each',
+      heartsLabel: (capA.length + capB.length + 3) * 8.3 <= room ? capA + ' · ' + capB : capA + '\n' + capB,
       time: time,
       timeSize: time.length > 7 ? 28 : time.length > 5 ? 34 : 48,
       done: done,

diff --git a/index.html b/index.html
@@ -14,9 +14,9 @@
 <link rel="manifest" href="manifest.webmanifest">
 <link rel="icon" href="icons/favicon.svg" type="image/svg+xml">
 <link rel="apple-touch-icon" href="icons/apple-touch-icon.png">
-<link rel="stylesheet" href="fonts/fonts.css?v=bda92d4bde">
-<link rel="stylesheet" href="themes.css?v=bda92d4bde">
-<link rel="stylesheet" href="app.css?v=bda92d4bde">
+<link rel="stylesheet" href="fonts/fonts.css?v=951db2664f">
+<link rel="stylesheet" href="themes.css?v=951db2664f">
+<link rel="stylesheet" href="app.css?v=951db2664f">
 </head>
 <body>
 <main id="home" class="home">
@@ -36,6 +36,6 @@
 <div id="player" class="player" hidden>
 <div id="stage" class="dc-stage"></div>
 </div>
-<script type="module" src="app.js?v=bda92d4bde"></script>
+<script type="module" src="app.js?v=951db2664f"></script>
 </body>
 </html>

diff --git a/app.js b/app.js
@@ -1,5 +1,5 @@
-import { mount, registerComponents } from './dc-runtime.js?v=bda92d4bde';
-import { THEMES, COMPONENTS } from './themes.js?v=bda92d4bde';
+import { mount, registerComponents } from './dc-runtime.js?v=951db2664f';
+import { THEMES, COMPONENTS } from './themes.js?v=951db2664f';
 
 registerComponents(COMPONENTS);
 

diff --git a/sw.js b/sw.js
@@ -1,5 +1,5 @@
 // Offline cache for Visual Timers (generated)
-const VERSION = 'bda92d4bde';
+const VERSION = '951db2664f';
 const CACHE = 'visual-timers-' + VERSION;
 const ASSETS = [
   "./",
